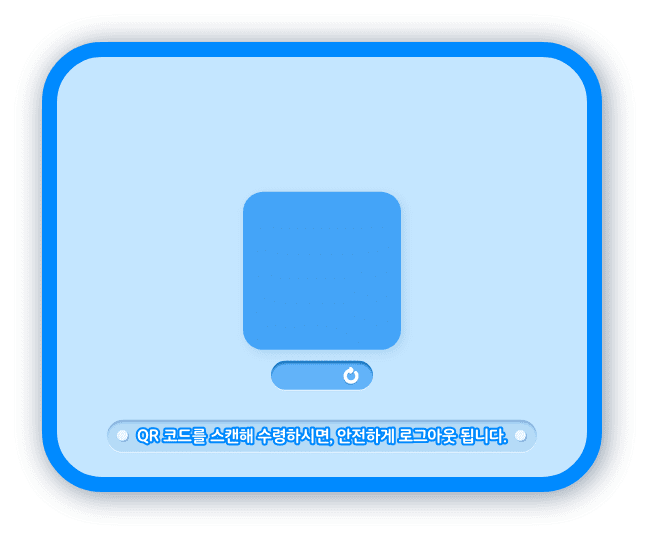
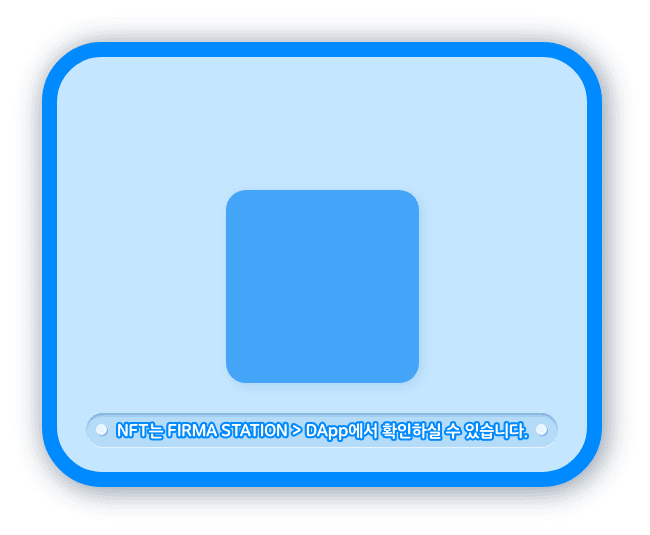
update: reward step

Changed region(s): [[0.1231, 0.329, 0.8615, 0.8374]]

diff --git a/src/components/step5/index.tsx b/src/components/step5/index.tsx
@@ -11,7 +11,6 @@ import {
   RewardContents,
   RewardTitle,
   QRDiv,
-  TimerText3,
   TokenRewardWrapper,
   TokenAmountWrapper,
   TokenIcon,
@@ -19,6 +18,7 @@ import {
   CommaImg,
   SymbolImg,
   NftImageCard,
+  CloseButton2,
 } from '../../styles';
 
 interface IProps {
@@ -33,7 +33,9 @@ interface IProps {
 const Step5 = ({ isActive, t, setStep, setLoading, setSigner, signer }: IProps) => {
   const [tokenAmount, setTokenAmount] = useState(10000);
   // const [nftName, setNftName] = useState('');
-  const [nftImageURL, setNftImageURL] = useState('');
+  const [nftImageURL, setNftImageURL] = useState(
+    'https://ipfs-dev.firmachain.dev/ipfs/Qmb6A4ZTMiMMijHc8gqk639MCYsAbKrikW5AZsdE7ZmSyz'
+  );
 
   useEffect(() => {
     if (isActive) {
@@ -79,14 +81,14 @@ const Step5 = ({ isActive, t, setStep, setLoading, setSigner, signer }: IProps) 
     );
   };
 
-  const refreshQR = () => {
-    // setRefresh(true);
+  const resetGame = () => {
     setLoading(true);
     setTimeout(() => {
       setLoading(false);
       setSigner('');
+      setNftImageURL('');
       setStep(0);
-    }, 2000);
+    }, 1300);
   };
 
   return (
@@ -122,7 +124,7 @@ const Step5 = ({ isActive, t, setStep, setLoading, setSigner, signer }: IProps) 
             setTimerText={setTimerText}
           /> */}
         </QRDiv>
-        <TimerText3 onClick={refreshQR}>close</TimerText3>
+        <CloseButton2 onClick={resetGame} src='/images/step5/icon_close_white_50px.png' />
       </RewardContents>
     </Step5Wrapper>
   );

diff --git a/src/components/requestQR/index.tsx b/src/components/requestQR/index.tsx
@@ -1,6 +1,7 @@
 import React, { useState, useEffect } from 'react';
 import axios from 'axios';
 import QRCode from 'qrcode.react';
+import { useSnackbar } from 'notistack';
 
 import { useInterval } from '../../utils/interval';
 
@@ -13,6 +14,8 @@ interface IProps {
   qrSize: number;
   isActive: boolean;
   isRefresh: boolean;
+  t: (key: string) => string;
+  setActive: (isActive: boolean) => void;
   setRefresh: (isRefresh: boolean) => void;
   setLoading: (isLoading: boolean) => void;
   setTimerText: (timerText: string) => void;
@@ -23,7 +26,9 @@ const RequestQR = ({
   requestType,
   signer = '',
   nftType = -1,
+  t,
   isActive,
+  setActive,
   isRefresh,
   setRefresh,
   setLoading,
@@ -34,6 +39,7 @@ const RequestQR = ({
   const [requestKey, setRequestKey] = useState('');
   const [expireDate, setExpireDate] = useState<Date | null>(null);
   const [timerFinish, setTimerFinish] = useState(false);
+  const { enqueueSnackbar } = useSnackbar();
 
   useEffect(() => {
     if (isActive) {
@@ -44,7 +50,12 @@ const RequestQR = ({
           setLoading(false);
         })
         .catch((error) => {
+          setActive(false);
           console.log(error);
+          enqueueSnackbar(t('notenough'), {
+            variant: 'info',
+            autoHideDuration: 3000,
+          });
         })
         .finally(() => {});
     }

diff --git a/src/components/step2/index.tsx b/src/components/step2/index.tsx
@@ -1,5 +1,6 @@
 import React, { useState } from 'react';
 import axios from 'axios';
+import { useSnackbar } from 'notistack';
 
 import RequestQR from '../requestQR';
 
@@ -18,8 +19,6 @@ import {
   Step2Character2,
   Step2Character1Star,
 } from '../../styles';
-
-import { useSnackbar } from 'notistack';
 
 interface IProps {
   isActive: boolean;
@@ -103,8 +102,10 @@ const Step2 = ({ isActive, setStep, setLoading, setSigner, t }: IProps) => {
       <QRWrapper src={'/images/step2/img_qr_300px.png'}>
         <RequestQR
           requestType='login'
+          t={t}
           setLoading={setLoading}
           isActive={isActive}
+          setActive={() => {}}
           isRefresh={isRefresh}
           setRefresh={setRefresh}
           setTimerText={setTimerText}

diff --git a/src/styles.ts b/src/styles.ts
@@ -451,6 +451,18 @@ export const CloseButton = styled.img`
   -webkit-tap-highlight-color: transparent;
 `;
 
+export const CloseButton2 = styled.img`
+  position: absolute;
+  bottom: -65px;
+  left: 50%;
+  transform: translate(-50%, 0);
+  cursor: pointer;
+  cursor: pointer;
+  -webkit-tap-highlight-color: rgba(0, 0, 0, 0);
+  -webkit-tap-highlight-color: transparent;
+  z-index: 8;
+`;
+
 export const RequestQRWrapper = styled.div`
   width: auto;
   display: flex;
@@ -959,8 +971,9 @@ export const NftImage = styled.img`
 `;
 
 export const NftImageCard = styled.img`
-  width: 124px;
-  height: 124px;
+  width: 160px;
+  height: 160px;
+  border-radius: 20px;
 `;
 
 export const NftName = styled.div`

diff --git a/src/components/ticket/index.tsx b/src/components/ticket/index.tsx
@@ -43,7 +43,9 @@ const Ticket = ({ t, isActive, setActiveTicket, characterType, signer, setLoadin
           <QRBox>
             <RequestQR
               requestType='play'
+              t={t}
               isActive={isActive}
+              setActive={setActiveTicket}
               isRefresh={isRefresh}
               setLoading={() => {}}
               setRefresh={setRefresh}

diff --git a/src/pages/main.tsx b/src/pages/main.tsx
@@ -29,7 +29,7 @@ interface IProps {
 
 const Main = ({ setLoading }: IProps) => {
   const { t, setLanguage } = useTranslate();
-  const [currentStep, setStep] = useState(0);
+  const [currentStep, setStep] = useState(4);
   const [signer, setSigner] = useState('');
 
   const [isActiveTicket, setActiveTicket] = useState(false);

diff --git a/src/utils/locale.tsx b/src/utils/locale.tsx
@@ -3,7 +3,7 @@ import { useState } from 'react';
 import localeJSON from '../locale.json';
 
 export const useTranslate = () => {
-  const [language, setLanguage] = useState('en');
+  const [language, setLanguage] = useState('kr');
   const locale: any = localeJSON;
 
   const t = (key: string) => {
